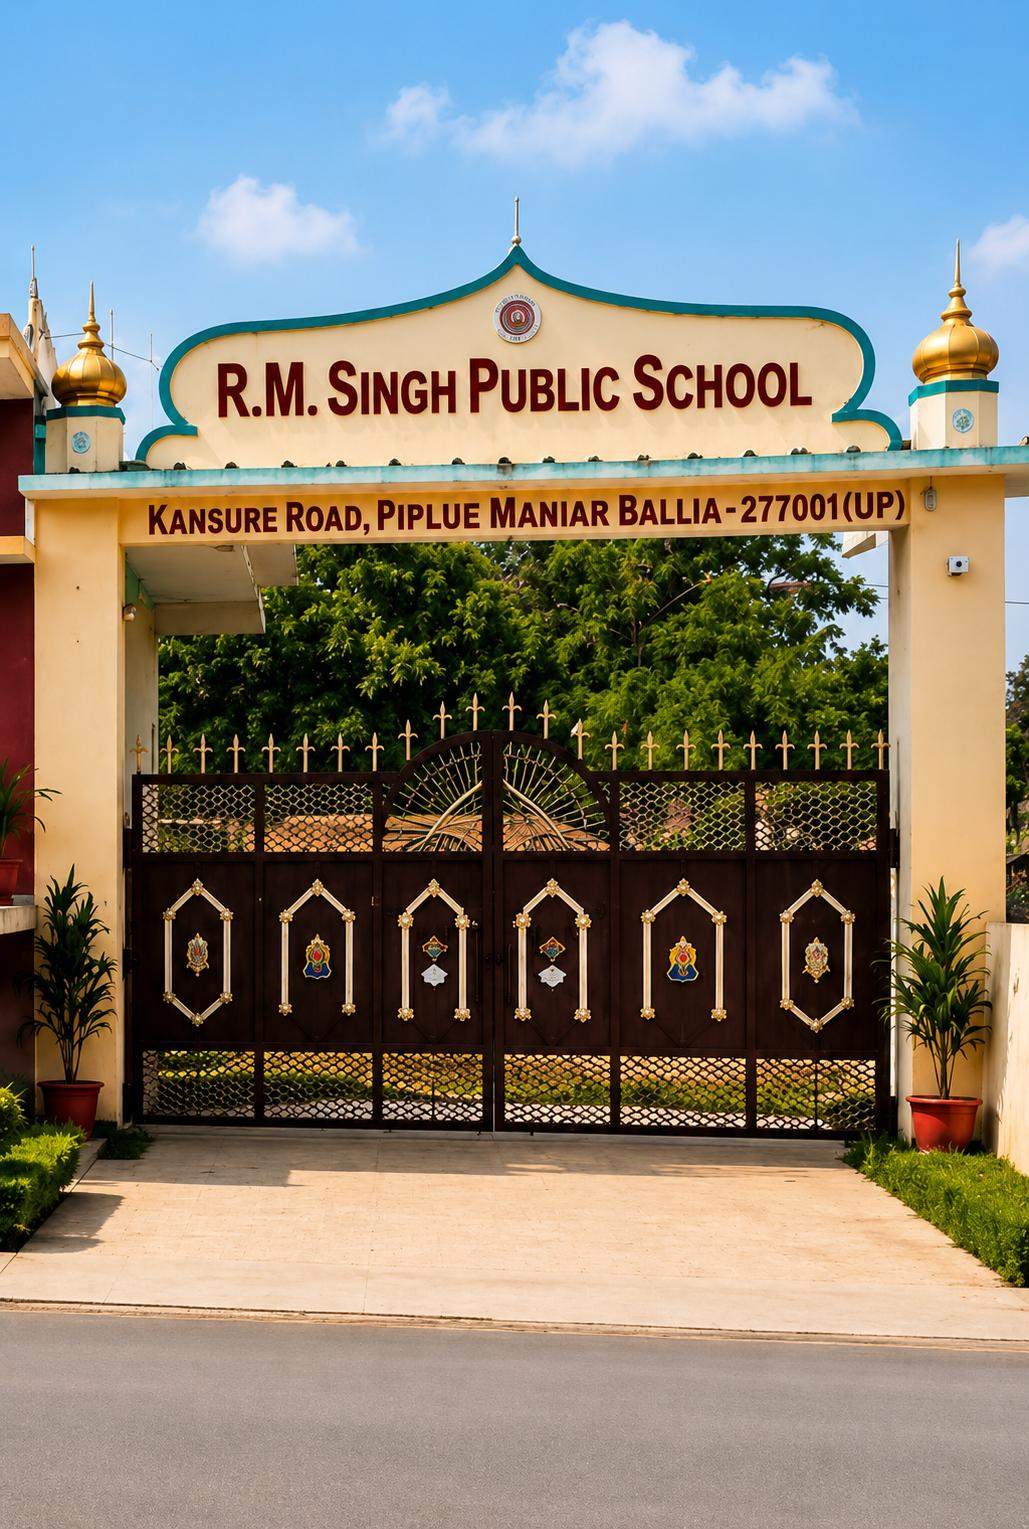
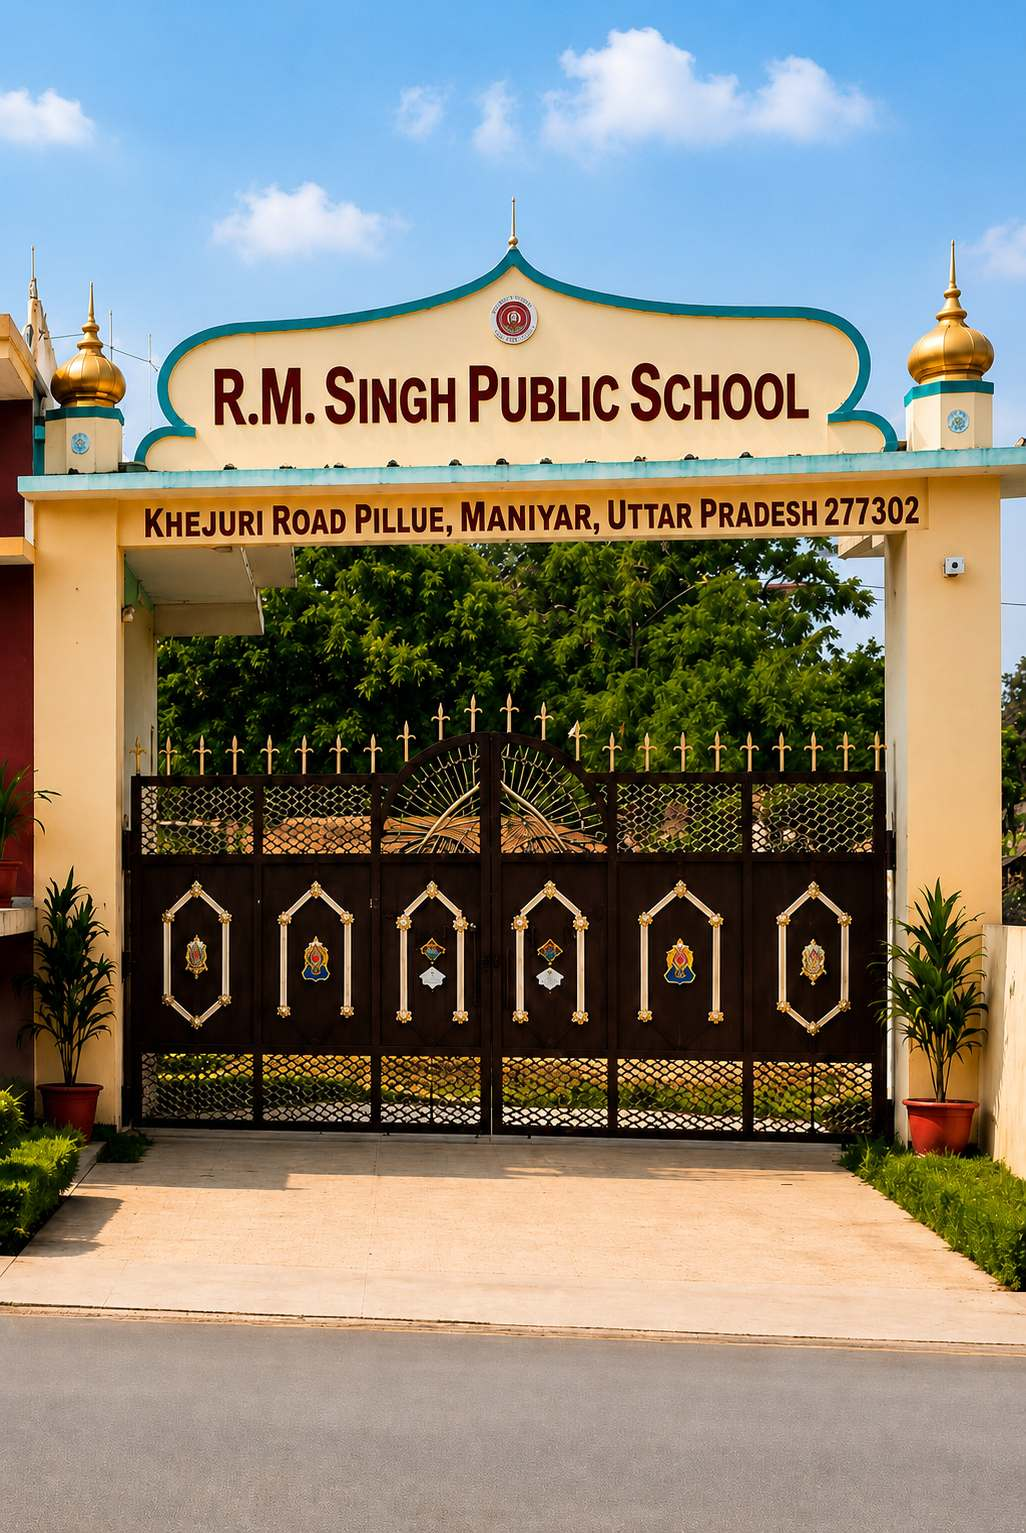
updated image address

diff --git a/components/about/Story.tsx b/components/about/Story.tsx
@@ -27,7 +27,7 @@ export default function StorySection() {
         >
           {/* Image */}
           <img
-            src="/images/school-tablet.jpeg"
+            src="/images/school-tablet.jpg"
             alt="School"
             className="relative w-full h-full object-cover"
           />
